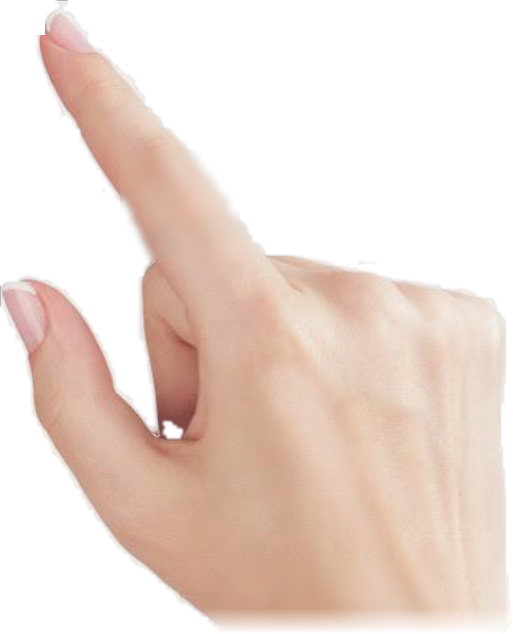
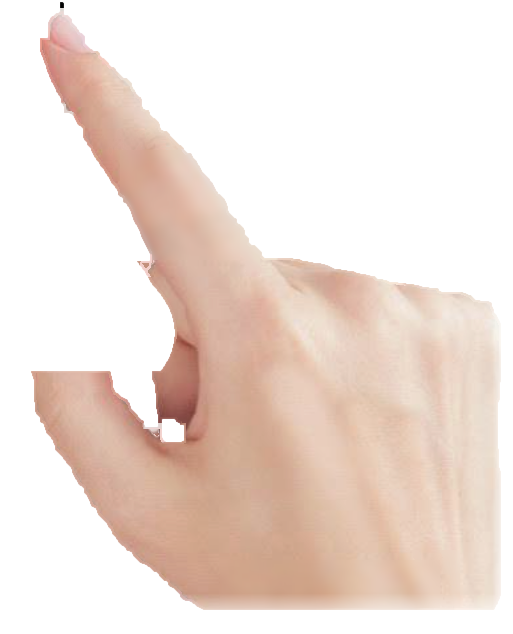
style: refine 3D floating hand positioning and update app store preview assets

diff --git a/design/ui/app_store_minimal_clean_preview.html b/design/ui/app_store_minimal_clean_preview.html
@@ -656,7 +656,7 @@
       display: inline-block;
       width: 172px;
       height: 99px;
-      margin-left: -65px; /* 精巧向左偏置，保留完整字母且为右侧悬浮人手留出舞台 */
+      margin-left: -70px; /* 精巧向左偏置，保留完整字母且为右侧悬浮人手留出舞台 */
     }
     .user-handwriting-img {
       width: 100%;
@@ -671,31 +671,31 @@
       overflow: visible !important;
     }
 
-    /* 3D 屏幕上方真实人手：完全悬浮于手机屏幕与机身之上，破框遮挡虚线框与按钮 */
+    /* 3D 屏幕上方真实人手：完全悬浮于手机屏幕与机身之上，食指尖精准正中最后一笔末端 */
     .floating-hand-3d {
       position: absolute;
-      left: 158px;
-      top: 406px;
-      width: 190px;
+      left: 153px;
+      top: 368px;
+      width: 200px;
       pointer-events: none;
       z-index: 80; /* 绝对高于手机屏幕与机身，形成纯正的屏幕上方 3D 遮挡 */
     }
     .floating-hand-3d .real-hand-img {
-      width: 190px;
+      width: 200px;
       height: auto;
       display: block;
-      /* 极其逼真的双层 3D 悬浮落影：阴影投射在虚线手写框与绿色下一个按钮上 */
-      filter: drop-shadow(-16px 20px 24px rgba(15, 23, 42, 0.44)) drop-shadow(-3px 6px 9px rgba(15, 23, 42, 0.22));
+      /* 清爽深邃立体阴影，绝不发虚 */
+      filter: drop-shadow(-14px 18px 22px rgba(15, 23, 42, 0.38)) drop-shadow(-2px 4px 6px rgba(15, 23, 42, 0.18));
     }
     .floating-hand-3d .finger-touch-glow {
       position: absolute;
-      top: 1px;
-      left: 18px;
-      width: 14px;
-      height: 14px;
+      top: -5px;
+      left: 16px;
+      width: 16px;
+      height: 16px;
       border-radius: 50%;
-      background: rgba(0, 134, 157, 0.65);
-      filter: blur(3.5px);
+      background: rgba(0, 134, 157, 0.55);
+      filter: blur(3px);
       animation: touchPulse 1.8s infinite ease-in-out;
       z-index: 85;
     }

diff --git a/server/nnbdc-service/src/main/java/beidanci/service/bo/WordCoreImageBo.java b/server/nnbdc-service/src/main/java/beidanci/service/bo/WordCoreImageBo.java
@@ -198,7 +198,9 @@ public class WordCoreImageBo extends BaseBo<WordCoreImage> {
     private WordCoreImage evaluateAndExtract(Word word, List<MeaningItem> meanings) {
         StringBuilder meaningText = new StringBuilder();
         for (MeaningItem m : meanings) {
-            meaningText.append("- [")
+            meaningText.append("- [释义ID: ")
+                    .append(m.getId())
+                    .append("] [")
                     .append(m.getCiXing() != null ? m.getCiXing() : "")
                     .append("] ")
                     .append(m.getMeaning())
@@ -221,14 +223,14 @@ public class WordCoreImageBo extends BaseBo<WordCoreImage> {
                 + "  \"schema_desc\": \"50-100字认知语言学图式深度剖析\",\n"
                 + "  \"branches\": [\n"
                 + "    {\n"
+                + "      \"meaning_id\": \"严格对应输入释义列表中的释义ID\",\n"
                 + "      \"pos\": \"词性，如 n. 或 v.\",\n"
                 + "      \"meaning\": \"释义名称\",\n"
                 + "      \"relation\": \"该释义如何脱胎于核心动势的极简纽带标签（8-14字）\",\n"
-                + "      \"desc\": \"详细引申逻辑说明\",\n"
-                + "      \"example\": \"英文典型例句\"\n"
+                + "      \"desc\": \"详细引申逻辑说明\"\n"
                 + "    }\n"
                 + "  ],\n"
-                + "  \"image_prompt\": \"英文提示词。必须基于以下准则：A clean, minimalist modern visual abstraction capturing the core dynamic essence of [core_image]. Matte dark void background with generous negative space. Base/Anchor: [compressed/stored potential energy in warm amber-gold]. Burst/Trajectory: [explosive release in vibrant emerald-green and turquoise luminescence]. Minimalist modern conceptual art, elegant few strokes, subtle glowing energy, crisp vectors. CRITICAL: Absolutely NO realistic objects, NO [word meanings like springs/water/trees], NO characters, NO faces. Only pure abstract kinetic forces, tension and momentum.\"\n"
+                + "  \"image_prompt\": \"纯中文生图提示词（80-150字）。为火山引擎/Kolors生图模型量身定制现代极简抽象视觉描述，遵循准则：1. 视觉风格：现代极简纯抽象概念艺术，纯净哑光极深纯色或深空黑背景，极简通透的充盈留白，克制优雅的微光矢量与能量线条；2. 意象动态构图：根据该词特有的[core_image]提炼其独特的空间几何图式与力学动势（由你根据该词的物理/空间本质自主构思，如牵引拉伸、发散辐射、回旋汇聚、界限隔断、穿透交织或层级堆叠等），并自主搭配2-3种契合该意象气质的高雅发光色彩；3. 绝对禁忌：严禁画出任何具体具象生活实物（绝对不得包含与该词具体释义相关的任何现实具象物体），严禁人物与面孔，严禁任何文字字母，纯粹由抽象几何形态、动力学张力与矢量光轨构成。\"\n"
                 + "}";
 
         String userPrompt = "待分析单词：" + word.getSpell() + "\n释义列表：\n" + meaningText.toString();
@@ -284,9 +286,9 @@ public class WordCoreImageBo extends BaseBo<WordCoreImage> {
 
         String prompt = item.getImagePrompt();
         if (prompt == null || prompt.trim().isEmpty()) {
-            prompt = "A clean, minimalist modern visual abstraction capturing the core dynamic essence of "
+            prompt = "现代极简纯抽象概念艺术，展现「"
                     + item.getCoreImage()
-                    + ". Matte dark void background with generous negative space. Base: compressed stored potential energy in warm amber-gold. Burst: explosive release in vibrant emerald-green and turquoise. Minimalist modern conceptual art, elegant few strokes, subtle glowing energy. Absolutely NO realistic objects, NO characters, NO text.";
+                    + "」的核心图式与空间动力学意象。纯净哑光深空黑背景，通透充盈留白。纯粹几何张力与微光能量轨迹，克制优雅现代流光矢量美学。绝对严禁任何具象生活实物，严禁人物面孔与任何文字，仅由纯抽象几何形态与动力学势能构成。";
         }
 
         String volcKey = System.getenv("VOLC_API_KEY");
